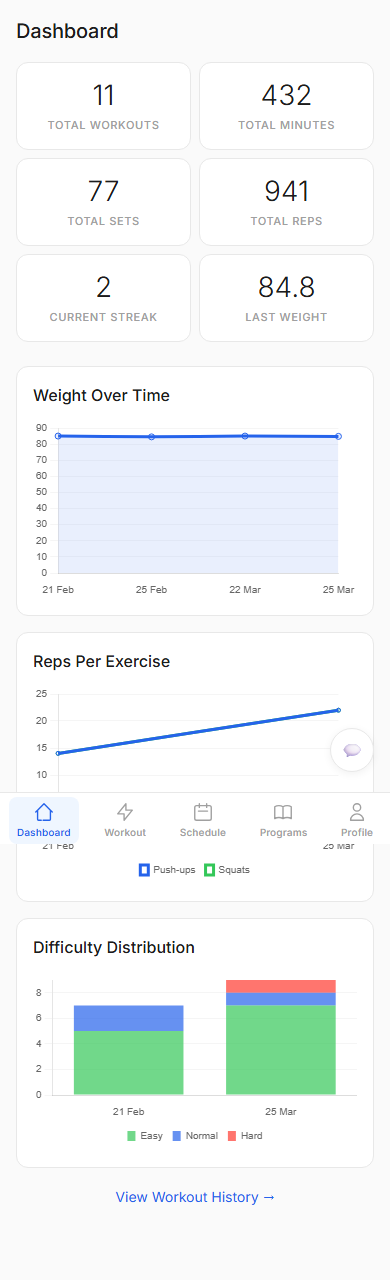
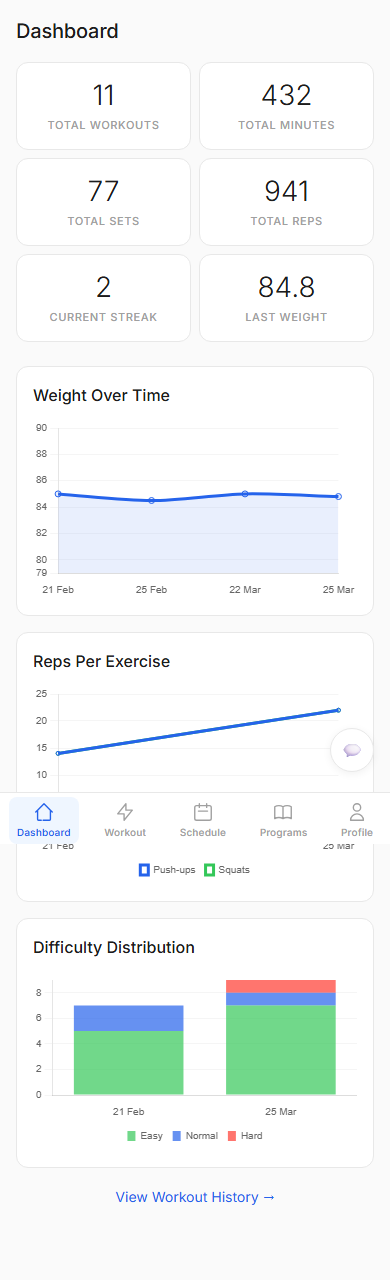
fix: profile blank, weight chart range, split morning/evening workouts
- API user.ts: normalize currentLevels from per-program storage to flat frontend format
  (fixes blank profile and programs expand on live)
- Dashboard: weight chart Y-axis now uses dynamic range (±5 kg) instead of starting at 0
- WorkoutPage: split morning (CC Day A/B) and evening (Dumbbells) into separate sessions
  with distinct generate buttons
- i18n: added morningSession/eveningSession/generateMorning/generateEvening keys (4 locales)

diff --git a/src/pages/WorkoutPage.tsx b/src/pages/WorkoutPage.tsx
@@ -159,41 +159,91 @@ export default function WorkoutPage() {
   }
 
   if (!workout) {
+    // Group slots into morning (A/B) and evening sessions
+    const morningSlots = todaySlots.filter(s => s.slot !== 'evening');
+    const eveningSlots = todaySlots.filter(s => s.slot === 'evening');
+
     return (
       <div>
         <h2 style={{ marginBottom: 16 }}>{t('workout.title')}</h2>
 
-        {/* Today's scheduled programs */}
-        {todaySlots.length > 0 && (
+        {/* Morning session */}
+        {morningSlots.length > 0 && (
           <div style={{ marginBottom: 16 }}>
-            <label className="label">{t('workout.todaySchedule')}</label>
-            <div style={{ display: 'flex', flexDirection: 'column', gap: 8 }}>
-              {todaySlots.map((slot, i) => {
+            <label className="label">{t('workout.morningSession')}</label>
+            <div className="card" style={{ marginBottom: 8 }}>
+              {morningSlots.map((slot, i) => {
                 const program = programs.find(p => p.id === slot.programId);
                 return (
-                  <div key={i} className="card" style={{ marginBottom: 0 }}>
-                    <div style={{ display: 'flex', justifyContent: 'space-between', alignItems: 'center' }}>
-                      <div>
-                        <div style={{ fontSize: '0.875rem', fontWeight: 500, color: 'var(--text-primary)' }}>
-                          {program?.name ?? slot.programId}
-                        </div>
-                        <div style={{ fontSize: '0.75rem', color: 'var(--text-tertiary)' }}>
-                          {t(`schedule.slot.${slot.slot}`, { defaultValue: `Day ${slot.slot}` })}
-                        </div>
+                  <div key={i} style={{
+                    display: 'flex', justifyContent: 'space-between', alignItems: 'center',
+                    padding: i > 0 ? '8px 0 0' : undefined,
+                  }}>
+                    <div>
+                      <div style={{ fontSize: '0.875rem', fontWeight: 500, color: 'var(--text-primary)' }}>
+                        {program?.name ?? slot.programId}
                       </div>
-                      <span style={{
-                        display: 'inline-block', padding: '2px 8px',
-                        borderRadius: 4, fontSize: '0.6875rem', fontWeight: 500,
-                        background: 'var(--accent-bg)', border: '1px solid var(--accent)',
-                        color: 'var(--accent)',
-                      }}>
-                        {slot.slot}
-                      </span>
+                      <div style={{ fontSize: '0.75rem', color: 'var(--text-tertiary)' }}>
+                        {t(`schedule.slot.${slot.slot}`, { defaultValue: `Day ${slot.slot}` })}
+                      </div>
                     </div>
+                    <span style={{
+                      display: 'inline-block', padding: '2px 8px', borderRadius: 4,
+                      fontSize: '0.6875rem', fontWeight: 500,
+                      background: 'var(--accent-bg)', border: '1px solid var(--accent)', color: 'var(--accent)',
+                    }}>{slot.slot}</span>
                   </div>
                 );
               })}
             </div>
+            <button
+              className="btn btn-primary"
+              onClick={handleGenerate}
+              disabled={generating}
+              aria-label={t('workout.generateMorning')}
+            >
+              {generating ? t('workout.generating') : t('workout.generateMorning')}
+            </button>
+          </div>
+        )}
+
+        {/* Evening session */}
+        {eveningSlots.length > 0 && (
+          <div style={{ marginBottom: 16 }}>
+            <label className="label">{t('workout.eveningSession')}</label>
+            <div className="card" style={{ marginBottom: 8 }}>
+              {eveningSlots.map((slot, i) => {
+                const program = programs.find(p => p.id === slot.programId);
+                return (
+                  <div key={i} style={{
+                    display: 'flex', justifyContent: 'space-between', alignItems: 'center',
+                    padding: i > 0 ? '8px 0 0' : undefined,
+                  }}>
+                    <div>
+                      <div style={{ fontSize: '0.875rem', fontWeight: 500, color: 'var(--text-primary)' }}>
+                        {program?.name ?? slot.programId}
+                      </div>
+                      <div style={{ fontSize: '0.75rem', color: 'var(--text-tertiary)' }}>
+                        {t(`schedule.slot.${slot.slot}`, { defaultValue: 'Evening' })}
+                      </div>
+                    </div>
+                    <span style={{
+                      display: 'inline-block', padding: '2px 8px', borderRadius: 4,
+                      fontSize: '0.6875rem', fontWeight: 500,
+                      background: 'var(--warning-bg)', border: '1px solid var(--warning)', color: 'var(--warning)',
+                    }}>{t('workout.evening')}</span>
+                  </div>
+                );
+              })}
+            </div>
+            <button
+              className="btn btn-secondary"
+              onClick={handleGenerate}
+              disabled={generating}
+              aria-label={t('workout.generateEvening')}
+            >
+              {generating ? t('workout.generating') : t('workout.generateEvening')}
+            </button>
           </div>
         )}
 
@@ -209,16 +259,6 @@ export default function WorkoutPage() {
             {error}
           </div>
         )}
-
-        <button
-          className="btn btn-primary"
-          onClick={handleGenerate}
-          disabled={generating}
-          style={{ maxWidth: 320, margin: '16px auto 0' }}
-          aria-label={t('workout.generate')}
-        >
-          {generating ? t('workout.generating') : t('workout.generate')}
-        </button>
       </div>
     );
   }

diff --git a/api/src/functions/user.ts b/api/src/functions/user.ts
@@ -20,6 +20,7 @@ app.http('getUser', {
     const table = getTable('tplanUsers');
     try {
       const entity = await table.getEntity(userId, 'profile');
+      const rawLevels = JSON.parse(entity.currentLevels as string || '{}');
       const user = {
         userId: entity.partitionKey,
         email: entity.email as string || '',
@@ -27,7 +28,7 @@ app.http('getUser', {
         locale: entity.locale as string || 'en',
         createdAt: entity.createdAt as string || new Date().toISOString(),
         enrolledPrograms: JSON.parse(entity.enrolledPrograms as string || '[]'),
-        currentLevels: JSON.parse(entity.currentLevels as string || '{}'),
+        currentLevels: normalizeLevels(rawLevels),
         preferences: JSON.parse(entity.preferences as string || JSON.stringify(DEFAULT_PREFERENCES)),
       };
       return { jsonBody: user };
@@ -93,3 +94,45 @@ app.http('updateUser', {
     }
   },
 });
+
+/**
+ * Normalize currentLevels from per-program storage format to flat frontend format.
+ * Storage: { "convict-conditioning": { "pushups": {...} }, "dumbbell-gymnastics": { "bicep-curl": {...} } }
+ * Frontend: { "pushups": {...}, "legRaises": {...}, "plank": {...}, "dumbbells": { weightKg, reps, consecutiveEasy } }
+ */
+function normalizeLevels(raw: Record<string, any>): Record<string, any> {
+  // If already in flat format (legacy), return as-is
+  if (raw.pushups || raw.legRaises || raw.squats) return raw;
+
+  const cc = raw['convict-conditioning'] || {};
+  const db = raw['dumbbell-gymnastics'] || {};
+
+  const flat: Record<string, any> = {
+    pushups: cc.pushups || { level: 1, sets: 2, reps: 5, consecutiveEasy: 0 },
+    legRaises: cc.legRaises || { level: 1, sets: 2, reps: 5, consecutiveEasy: 0 },
+    squats: cc.squats || { level: 1, sets: 2, reps: 5, consecutiveEasy: 0 },
+    bridges: cc.bridges || { level: 1, sets: 2, reps: 10, consecutiveEasy: 0 },
+    plank: cc.plank || { durationSec: 30, consecutiveEasy: 0 },
+    dumbbells: {
+      weightKg: 3.5,
+      reps: {} as Record<string, number>,
+      consecutiveEasy: {} as Record<string, number>,
+    },
+  };
+
+  const DB_NAMES: Record<string, string> = {
+    'tennis-ball': 'Tennis Ball Squeeze', 'bicep-curl': 'Bicep Curl', 'reverse-curl': 'Reverse Curl',
+    'french-press': 'French Press', 'front-raise': 'Front Raise', 'bench-press': 'Dumbbell Bench Press',
+    'neck-raise': 'Neck Raise', 'back-extension': 'Back Extension', 'side-bend': 'Side Bend',
+    'db-squat': 'Dumbbell Squat', 'calf-raise': 'Calf Raise', 'wrist-curl': 'Wrist Curl',
+    'reverse-wrist': 'Reverse Wrist Curl',
+  };
+
+  for (const [id, data] of Object.entries(db)) {
+    const name = DB_NAMES[id] || id;
+    flat.dumbbells.reps[name] = (data as any).reps || 5;
+    flat.dumbbells.consecutiveEasy[name] = (data as any).consecutiveEasy || 0;
+  }
+
+  return flat;
+}

diff --git a/src/pages/Dashboard.tsx b/src/pages/Dashboard.tsx
@@ -76,6 +76,27 @@ export default function Dashboard() {
     }],
   } : null;
 
+  // Dynamic Y-axis range for weight chart (±5 kg from min/max)
+  const weightYMin = weightData
+    ? Math.floor(Math.min(...stats.weightHistory.map(w => w.weight)) - 5)
+    : 0;
+  const weightYMax = weightData
+    ? Math.ceil(Math.max(...stats.weightHistory.map(w => w.weight)) + 5)
+    : 100;
+
+  const weightChartOptions = {
+    ...chartOptions,
+    scales: {
+      ...chartOptions.scales,
+      y: {
+        ...chartOptions.scales.y,
+        beginAtZero: false,
+        min: weightYMin,
+        max: weightYMax,
+      },
+    },
+  };
+
   // Reps per exercise chart
   const repsData = stats.repsPerExercise.length > 0 ? buildRepsChart(stats.repsPerExercise) : null;
 
@@ -107,7 +128,7 @@ export default function Dashboard() {
         <div className="card">
           <h3 style={{ marginBottom: 12 }}>{t('dashboard.weightChart')}</h3>
           <div style={{ height: 180 }}>
-            <Line data={weightData} options={chartOptions} />
+            <Line data={weightData} options={weightChartOptions} />
           </div>
         </div>
       )}
